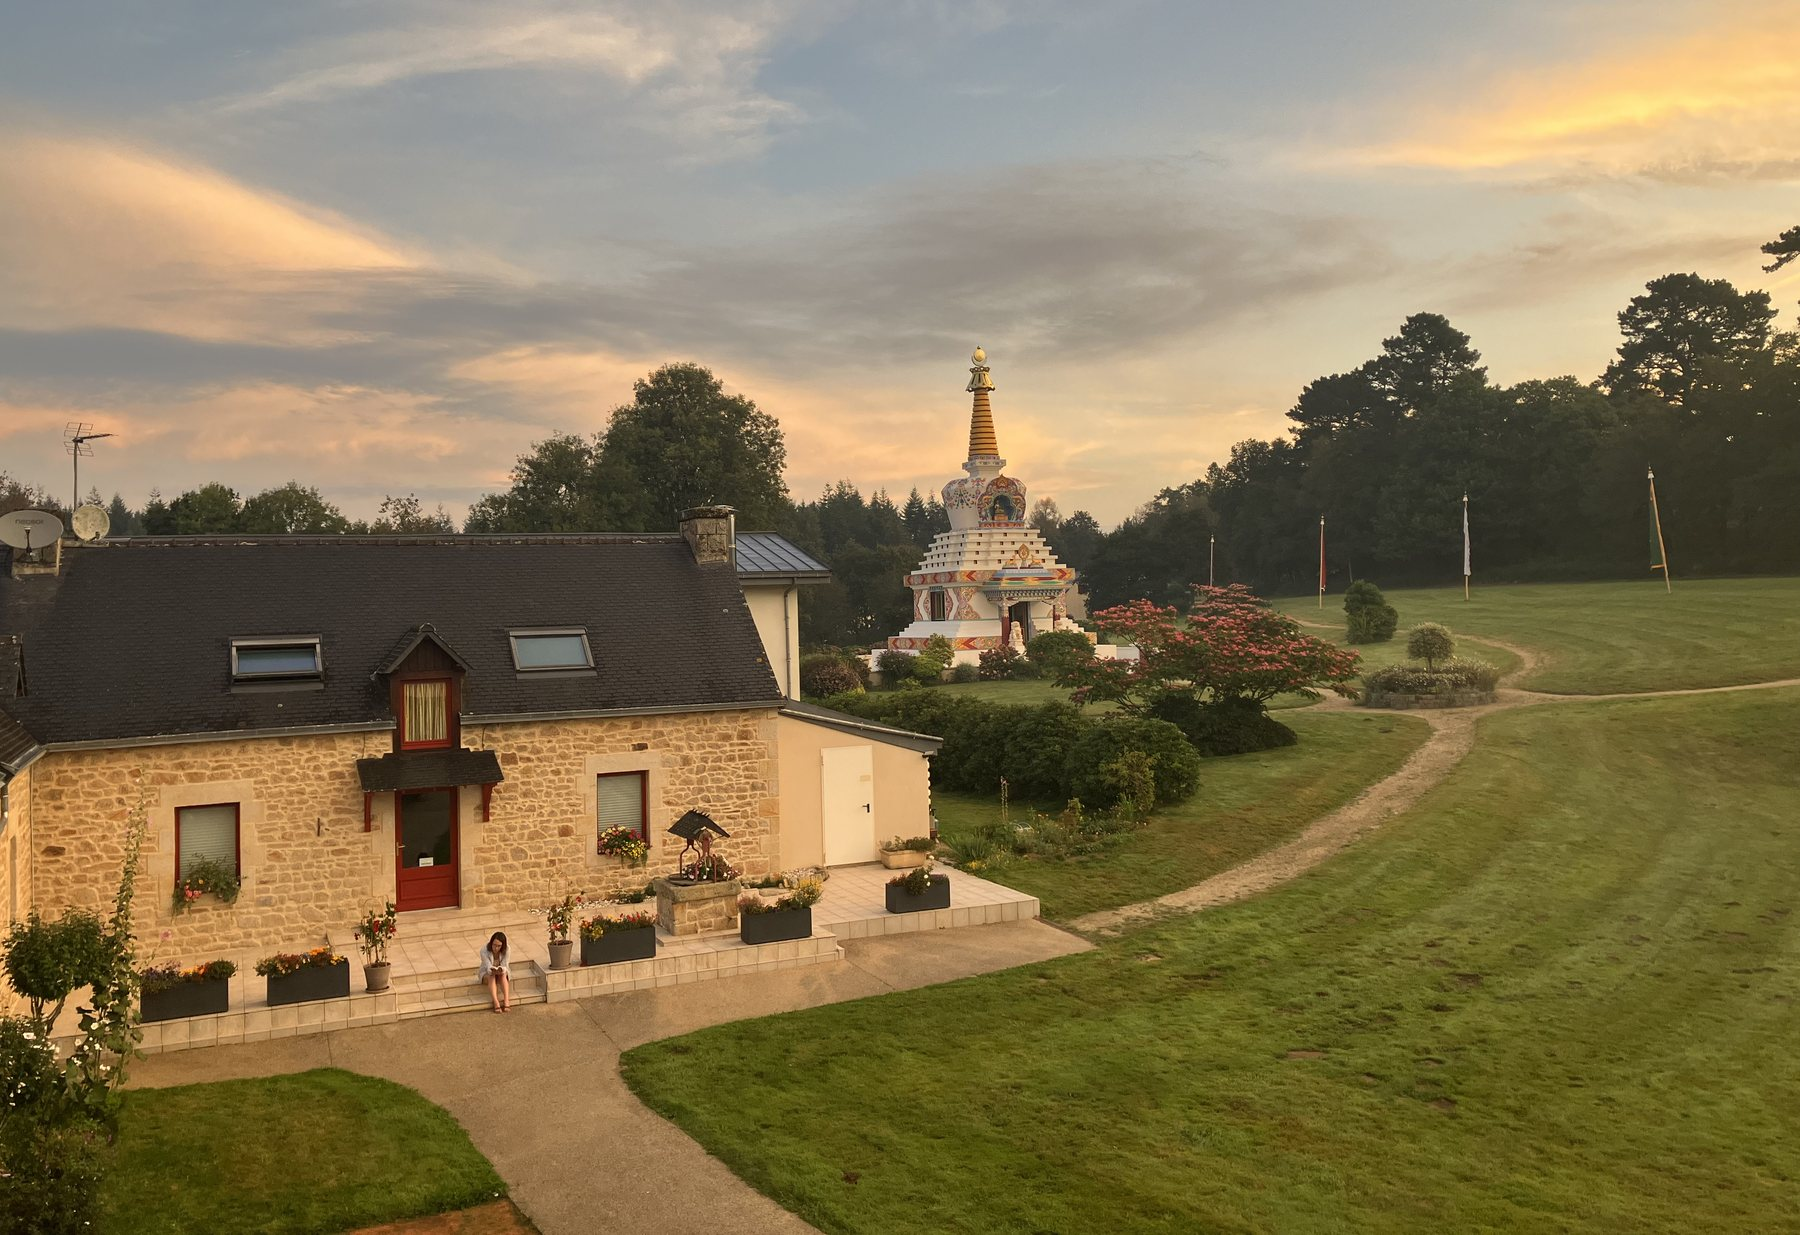
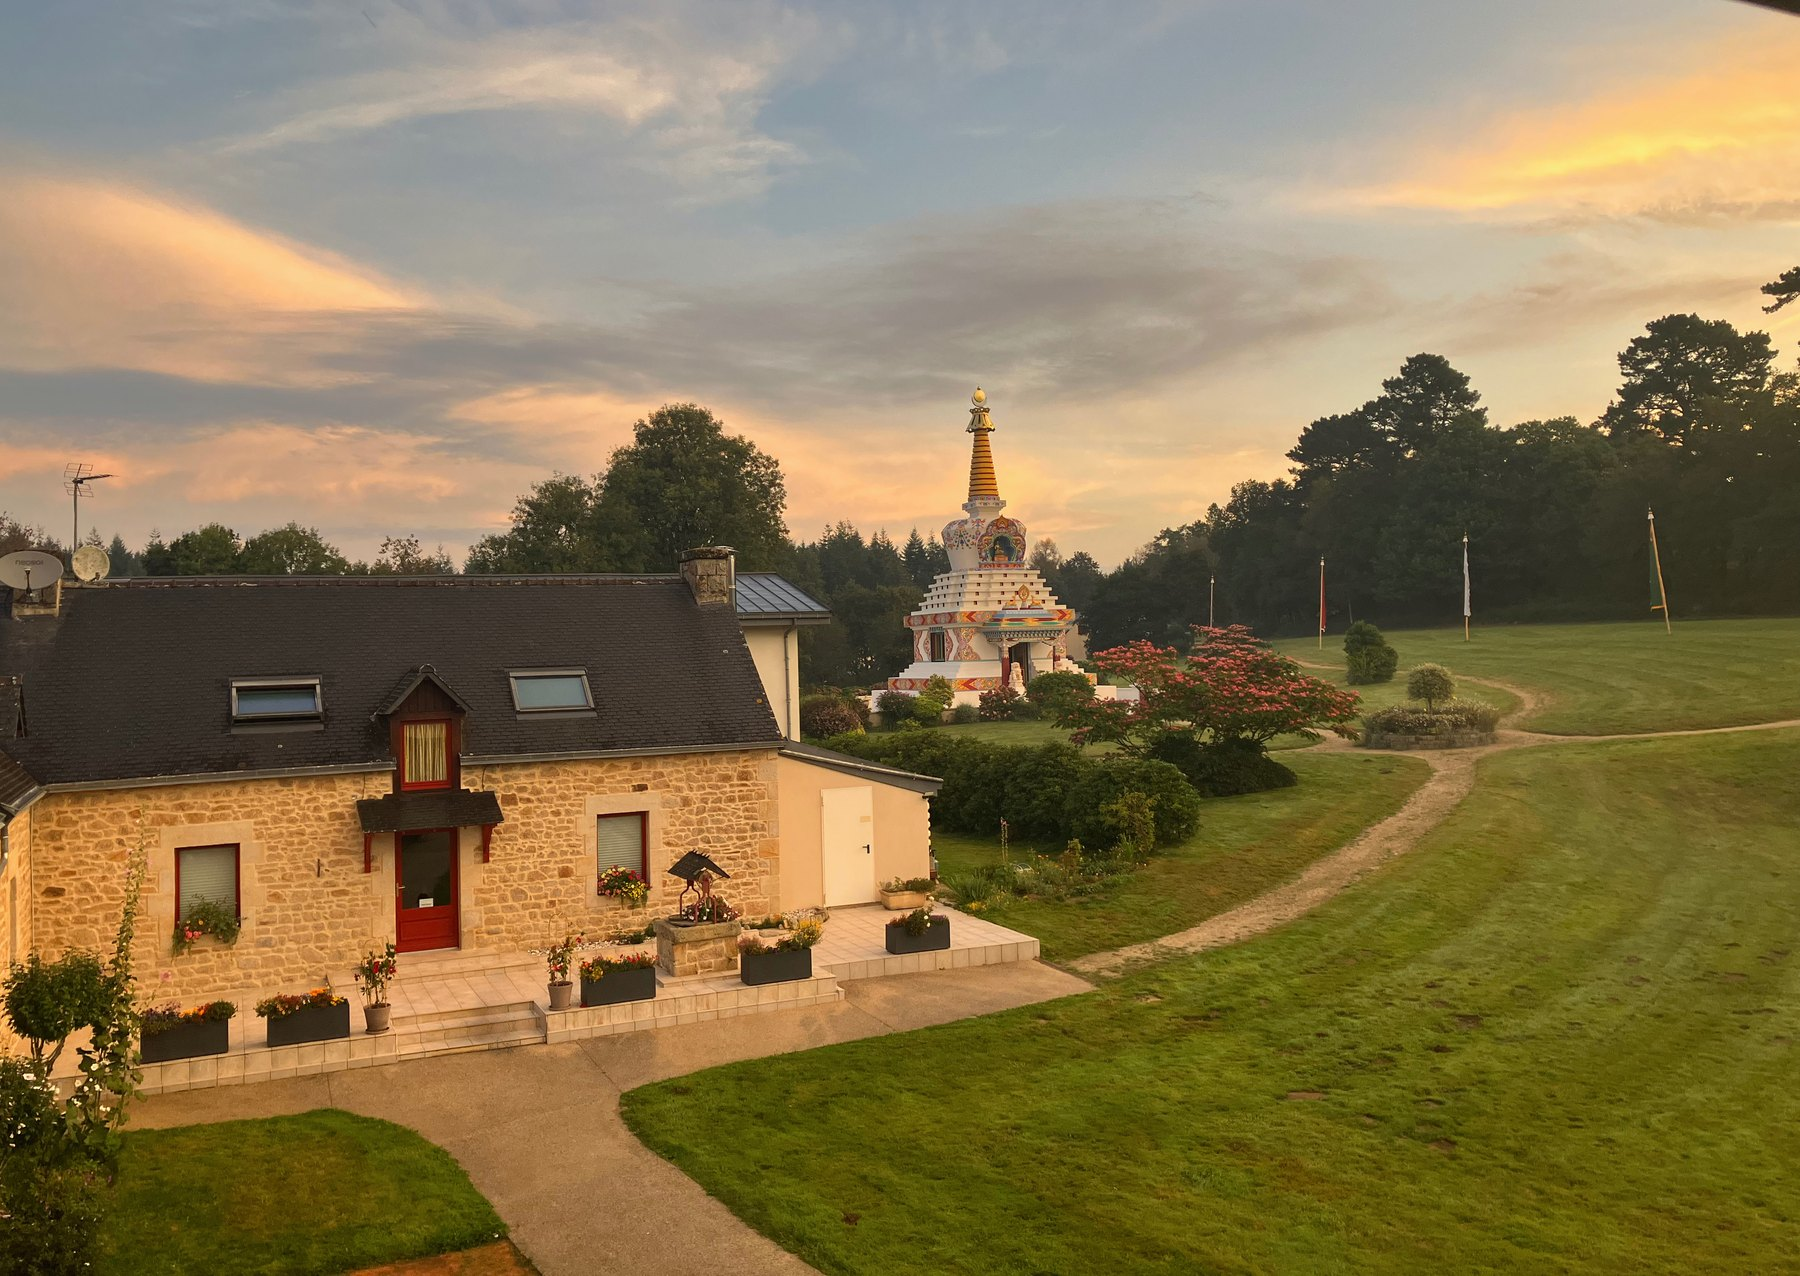
Add files via upload

diff --git a/contact.html b/contact.html
@@ -60,17 +60,6 @@
       </p>
       <a href="https://www.helloasso.com" target="_blank" rel="noopener" class="btn btn-or">Adhérer via HelloAsso</a>
 
-      <div class="encadre" style="margin-top:2.2rem">
-        <p class="small">
-          <strong>Nous écrire directement.</strong><br>
-          Pour limiter le courrier indésirable, notre adresse n'est pas affichée
-          en clair sur le site&nbsp;: elle apparaît en cliquant ci-dessous.
-        </p>
-        <p class="small" style="margin-top:.6rem">
-          <a href="#" id="lien-mail">Afficher l'adresse de contact</a>
-        </p>
-      </div>
-
       <h3 style="margin-top:2rem">Nous suivre</h3>
       <p class="small">
         <a href="https://www.facebook.com/profile.php?id=100088255381524"
@@ -78,58 +67,26 @@
       </p>
     </div>
 
-    <!-- ===== Colonne formulaire ===== -->
+    <!-- ===== Colonne "Nous écrire" =====
+         Le formulaire Formspree sera remis en service dès que l'identifiant
+         sera créé (voir LISEZ-MOI). En attendant, l'adresse est affichée
+         au clic, assemblée en JavaScript : elle n'apparaît jamais en clair
+         dans le code de la page, donc jamais pour les robots collecteurs. -->
     <div class="contact-form">
-      <h3>Formulaire</h3>
-      <!--
-        MISE EN SERVICE DU FORMULAIRE (5 minutes, gratuit) :
-        1. Créer un compte sur https://formspree.io
-        2. Créer un formulaire, copier son identifiant (ex. mabcdefg)
-        3. Remplacer VOTRE_ID_FORMSPREE ci-dessous par cet identifiant.
-        L'adresse de réception reste privée : elle n'apparaît jamais dans le code
-        de la page, donc jamais dans les aspirateurs d'adresses.
-      -->
-      <form action="#" onsubmit="return apercuForm(this,event)">
-
-        <!-- Pot de miel : piège à robots, invisible pour les visiteurs -->
-        <input type="text" name="_gotcha" class="pot-de-miel" tabindex="-1"
-               autocomplete="off" aria-hidden="true">
-
-        <div class="form-champ">
-          <label for="nom">Nom</label>
-          <input id="nom" type="text" name="nom" required>
-        </div>
-
-        <div class="form-champ">
-          <label for="email">Adresse électronique</label>
-          <input id="email" type="email" name="email" required>
-        </div>
-
-        <div class="form-champ">
-          <label for="sujet">Sujet</label>
-          <select id="sujet" name="sujet">
-            <option>Découvrir le centre</option>
-            <option>Adhésion à l'association</option>
-            <option>Enseignements et retraites</option>
-            <option>Dialogue interreligieux</option>
-            <option>Live to Love</option>
-            <option>Autre</option>
-          </select>
-        </div>
-
-        <div class="form-champ">
-          <label for="message">Message</label>
-          <textarea id="message" name="message" required></textarea>
-        </div>
-
-        <input type="hidden" name="_subject" value="Message — site Drukpa Grenoble">
-        <button type="submit" class="btn btn-or">Envoyer</button>
-      </form>
-
-      <p class="small muted" style="margin-top:1.2rem">
-        Les informations transmises servent uniquement à répondre à votre message.
-        Elles ne font l'objet d'aucune diffusion.
+      <h3>Nous écrire</h3>
+      <p>
+        Pour toute question sur les activités du centre, les enseignements,
+        l'adhésion ou le dialogue interreligieux, écrivez-nous&nbsp;: nous
+        répondons à chaque message.
       </p>
+      <p class="small muted">
+        Pour limiter le courrier indésirable, notre adresse n'est pas écrite
+        en clair sur cette page. Cliquez ci-dessous pour l'afficher.
+      </p>
+      <p style="margin-top:1.4rem">
+        <a href="#" id="lien-mail-2" class="btn btn-or">Afficher l'adresse</a>
+      </p>
+      <p id="zone-mail" class="small" style="margin-top:1.2rem"></p>
     </div>
 
   </div>
@@ -145,19 +102,20 @@
 </footer>
 
 <script>
-function apercuForm(f,e){e.preventDefault();if(!f.dataset.done){var p=document.createElement("p");p.className="small";p.style.color="#9C2B23";p.textContent="Aperçu : le formulaire n'est pas encore relié.";f.appendChild(p);f.dataset.done=1;}return false;}
-
-/* Adresse assemblée au clic : jamais présente en clair dans le code source,
-   donc invisible pour les robots collecteurs d'adresses.
-   → Remplacer 'contact' et 'exemple.org' par la vraie boîte de l'association. */
+/* L'adresse n'est jamais présente en clair dans le code source : elle est
+   reconstruite au moment du clic, donc invisible pour les aspirateurs
+   d'adresses. Pour la changer, modifier les deux variables ci-dessous. */
 (function(){
-  var boite = 'contact';
-  var domaine = 'exemple' + '.' + 'org';
-  var lien = document.getElementById('lien-mail');
+  var boite   = 'association17.drukpa.grenoble';
+  var domaine = 'gmail' + '.' + 'com';
+  var lien = document.getElementById('lien-mail-2');
+  var zone = document.getElementById('zone-mail');
+  if(!lien) return;
   lien.addEventListener('click', function(e){
     e.preventDefault();
     var adresse = boite + String.fromCharCode(64) + domaine;
-    lien.outerHTML = '<a href="mailto:' + adresse + '">' + adresse + '</a>';
+    zone.innerHTML = '<a href="mailto:' + adresse + '">' + adresse + '</a>';
+    lien.style.display = 'none';
   });
 })();
 </script>

diff --git a/index.html b/index.html
@@ -115,7 +115,7 @@
     <h2>Drukpa Plouray</h2>
     <div class="rule"></div>
     <img src="plouray-stupa.jpg" alt="Le centre Drukpa Plouray et son stupa, au crépuscule"
-         style="margin:0 auto 1.6rem;max-width:760px">
+         style="margin:0 auto 1.6rem;max-width:820px">
     <p>
       Drukpa Grenoble est relié au centre bouddhique Drukpa Plouray, en Bretagne,
       où sont organisées des retraites collectives et des enseignements,
